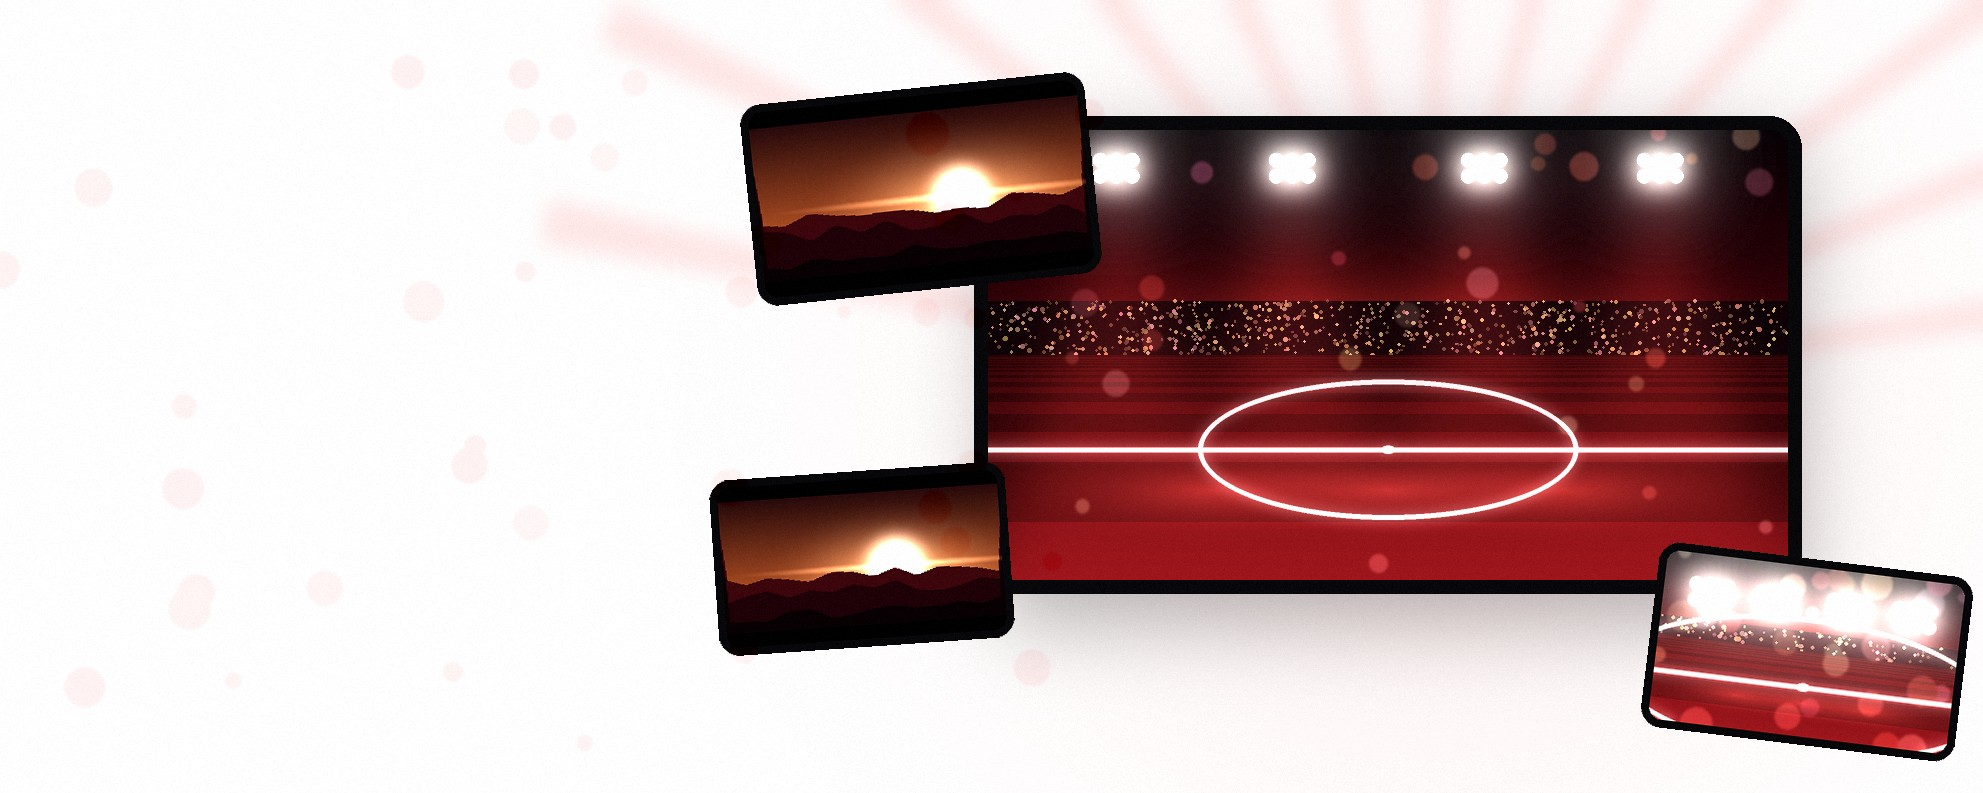
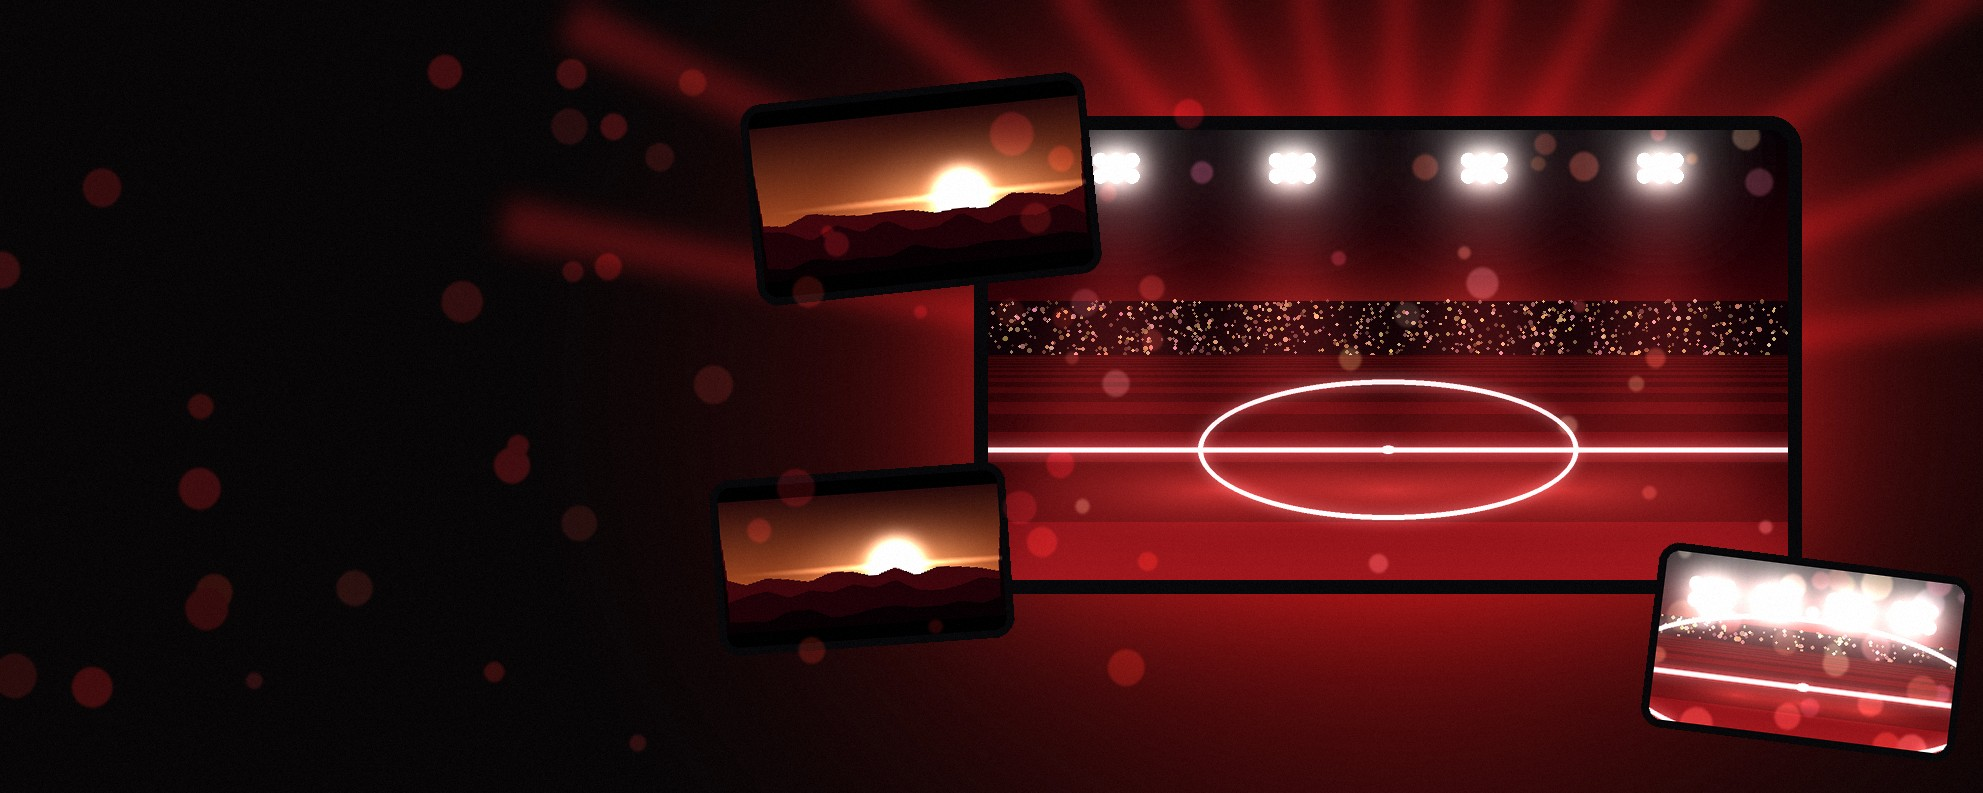
Add files via upload

diff --git a/public/nav.css b/public/nav.css
@@ -32,7 +32,7 @@ header.wrap .login { white-space: nowrap; flex-shrink: 0; margin-left: 0; }
   header.wrap nav { gap: 22px; font-size: 14px; }
 }
 
-@media (max-width: 950px) {
+@media (max-width: 820px) {
   header.wrap { flex-wrap: nowrap !important; height: 96px !important; padding-bottom: 0 !important; gap: 12px; position: sticky; }
   header.wrap .brand { height: auto !important; width: 112px !important; }
   header.wrap .brand img { height: 76px !important; }
@@ -65,4 +65,14 @@ header .brand img, header.wrap .brand img { height: 92px !important; width: auto
 @media (max-width: 650px) {
   header .brand, header.wrap .brand { width: 104px !important; }
   header .brand img, header.wrap .brand img { height: 72px !important; }
+}
+
+/* Keep the full menu visible on laptop-size windows; fold into the hamburger only on small screens */
+@media (min-width: 821px) and (max-width: 1180px) {
+  header.wrap { gap: 16px; }
+  header.wrap nav { gap: 18px; font-size: 14px; }
+  header.wrap .signup-link { display: none !important; }
+}
+@media (max-width: 820px) {
+  header.wrap nav .nav-signup { display: block !important; }
 }

diff --git a/public/theme.js b/public/theme.js
@@ -175,10 +175,10 @@
 
   function init() {
     addStaticToggle()
-    apply('light')
+    apply('dark')
   }
-  // Set the attribute right away (before paint) and finish once the page is ready
-  root.setAttribute('data-theme', 'light')
+  // GTS TV is a black theme. Set the attribute right away (before paint) and finish once the page is ready
+  root.setAttribute('data-theme', 'dark')
   if (document.readyState === 'loading') document.addEventListener('DOMContentLoaded', init)
   else init()
 })()
